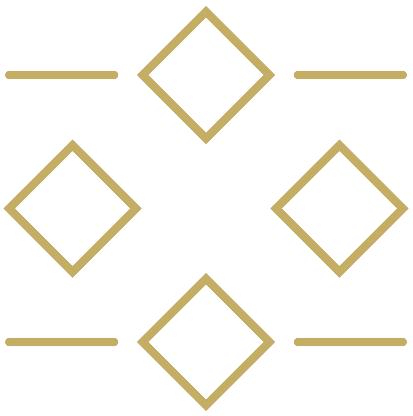
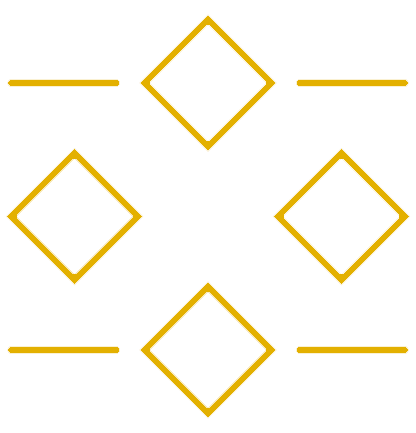
add loader

diff --git a/src/components/common/Preloader.tsx b/src/components/common/Preloader.tsx
@@ -1,29 +1,33 @@
 "use client";
 
+import Image from "next/image";
 import { useSmoothTyping } from "@/hooks/useTypingEffect";
+import PatternSection from "./PatternSection";
 
 export default function Preloader() {
-  const title = useSmoothTyping("M.S. ENCLAVE", 1500);
-  const subtitle = useSmoothTyping("HERITAGE HOME STAY", 2200);
-  const location = useSmoothTyping("Paruthipully, Palakkad", 2800);
-
+  const webAddress = useSmoothTyping("www.msheritageresort.com", 2000);
   return (
-    <section className="fixed inset-0 z-[9999] flex items-center justify-center theme-bg backdrop-blur-md">
-      <div className="flex flex-col items-center gap-3 text-center">
-        
-        <h1 className="text-black text-5xl font-semibold tracking-widest">
-          {title}
-        </h1>
-
-        <p className="text-black/80 text-xl tracking-wide uppercase text-center">
-          {subtitle}
+    <section className="fixed inset-0 z-9999 flex items-center justify-center theme-bg bg-white overflow-hidden">
+      
+      {/* Center Content */}
+      <div className="relative z-10 flex flex-col items-center gap-3 text-center ">
+        <Image
+                      src="/ms-enclave-logo-1.PNG"
+                      height={40}
+                      width={350}
+                      alt="ms-heritage-resort-palakkad-logo"
+                      className="drop-shadow-sm animate-fadeIn"
+                    />
+        <p className="theme-text text-xl mt-[-13px] tracking-wide font-light font-dm text-shadow-2xs">
+          {webAddress}
         </p>
-
-        <p className="text-black/80 text-lg tracking-wide">
-          {location}
-        </p>
-
       </div>
+
+      {/* Pattern Bottom Center */}
+      <div className="absolute bottom-14 left-1/2 -translate-x-1/2 w-full">
+        <PatternSection className="h-40 w-full"  />
+      </div>
+
     </section>
   );
 }

diff --git a/src/app/globals.css b/src/app/globals.css
@@ -103,9 +103,7 @@ body {
   animation: splash 500ms ease-out;
   z-index: 9999;
 }
-.theme-bg{
- background-color:  #67120d
-}
+
 
 @keyframes splash {
   to {
@@ -149,8 +147,18 @@ body {
     box-shadow: none;
   }
 }
+.theme-bg{
+ /* background-color:  #8d1a1c; */
+ background-color:  #7a0002;
+ background-image: url("/images/brand/egg-shell.png");
+  background-repeat: repeat;
+  opacity: 0.95;
+}
+.theme-text{
+  color: #efaf00;
+}
 .pattern-theme {
-  background-image: url("/images/brand/pattern.png");
+  background-image: url("/images/brand/pattern1.png");
   background-repeat: repeat;
   background-size: 82px;
   height: 86px;

diff --git a/src/components/common/PatternSection.tsx b/src/components/common/PatternSection.tsx
@@ -11,11 +11,11 @@ interface PatternSectionProps {
 export default function PatternSection({
   children,
   className = "",
-  opacity = 0.80,
+  opacity = 0.90,
 }: PatternSectionProps) {
   return (
-    <section className="h-30 w-full flex align-middle theme-bg">
-        <div className={`relative w-full theme-bg mt-5 ${className}`}>
+    <section className="h-30 w-full flex align-middle ">
+        <div className={`relative w-full mt-5 ${className}`}>
       
       {/* Pattern Background */}
       <div

diff --git a/src/components/common/LayoutWrapper.tsx b/src/components/common/LayoutWrapper.tsx
@@ -24,7 +24,7 @@ export default function LayoutWrapper({
 
     const timer = setTimeout(() => {
       setLoading(false);
-    }, 1000000); // ⬅ better UX than 3s
+    }, 2500); // ⬅ better UX than 3s
 
     return () => clearTimeout(timer);
   }, [pathname]); // ⬅ runs on route change
